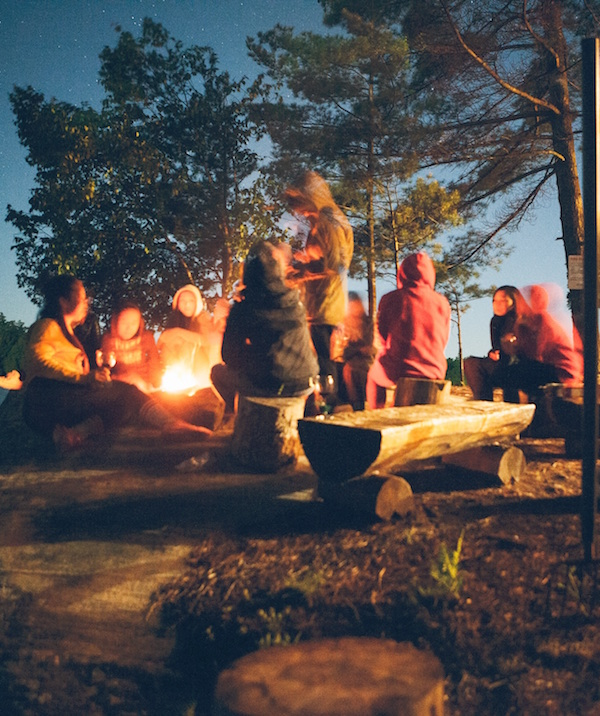
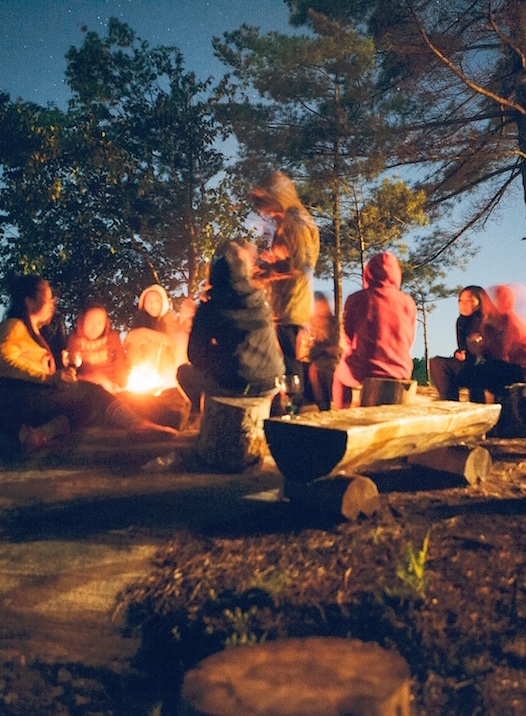
Tweak list page sidebar images to only take up 33% width

diff --git a/app/assets/stylesheets/list-pages.scss b/app/assets/stylesheets/list-pages.scss
@@ -1,0 +1,8 @@
+.sidebar-image {
+  img {
+    width: 120%;
+    margin-left: -10%;
+    margin-right: -10%;
+    margin-top: -21px; // to match up to the hr above it
+  }
+}
